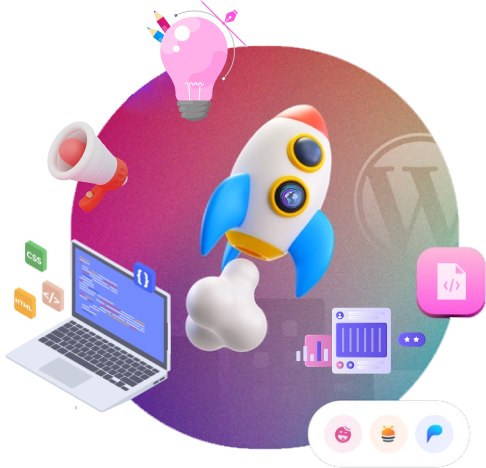
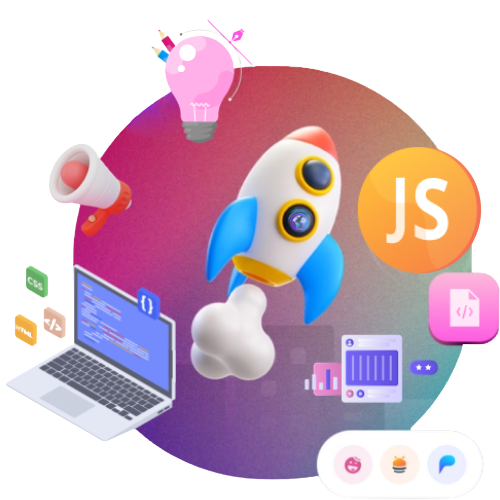
some-code

diff --git a/index.html b/index.html
@@ -13,7 +13,7 @@
 <body>
     <div style="clip-path: polygon(0% 0%, 100% 0, 100% 97%, 0% 100%);background: linear-gradient(90deg, #2272FF 0%, #7661FC 100%);"
         class="w-full h-screen">
-        <header class="text-gray-600 px-48 body-font border-b border-white border-solid">
+        <header class="text-gray-600 sm:px-0  px-48 body-font border-b border-white border-solid">
             <div class="container mx-auto flex flex-wrap p-5 flex-col md:flex-row items-center">
                 <a class="flex title-font font-medium items-center text-gray-900 mb-4 md:mb-0">
                     <img src="assets/logo.png" class="w-30 h-14" alt="">
@@ -45,12 +45,12 @@
                     </div>
                     <img alt="ecommerce" class="relative object-cover object-center rounded" style="width : 400px;"
                         src="assets/right-side.png">
-                    <img src="assets/js.png" class="w-24 absolute" style="right: 190px;top: 240px;" alt="">
                 </div>
             </div>
         </section>
     </div>
-    <section class="overflow-x-hidden flex justify-between items-center w-full h-100 py-10 bg-blue-100 relative">
+    <section
+        class="overflow-x-hidden flex flex sm:flex-row justify-between items-center w-full h-100 py-10 bg-blue-100 relative">
         <div class="ml-32  w-1/2 text-center items-center flex flex-col">
             <h1 class="uppercase font-black text-2xl mb-3">about us</h1>
             <p class="font-light leading-8 mb-4" style="width: 500px;">With a deep understanding of the digital world
